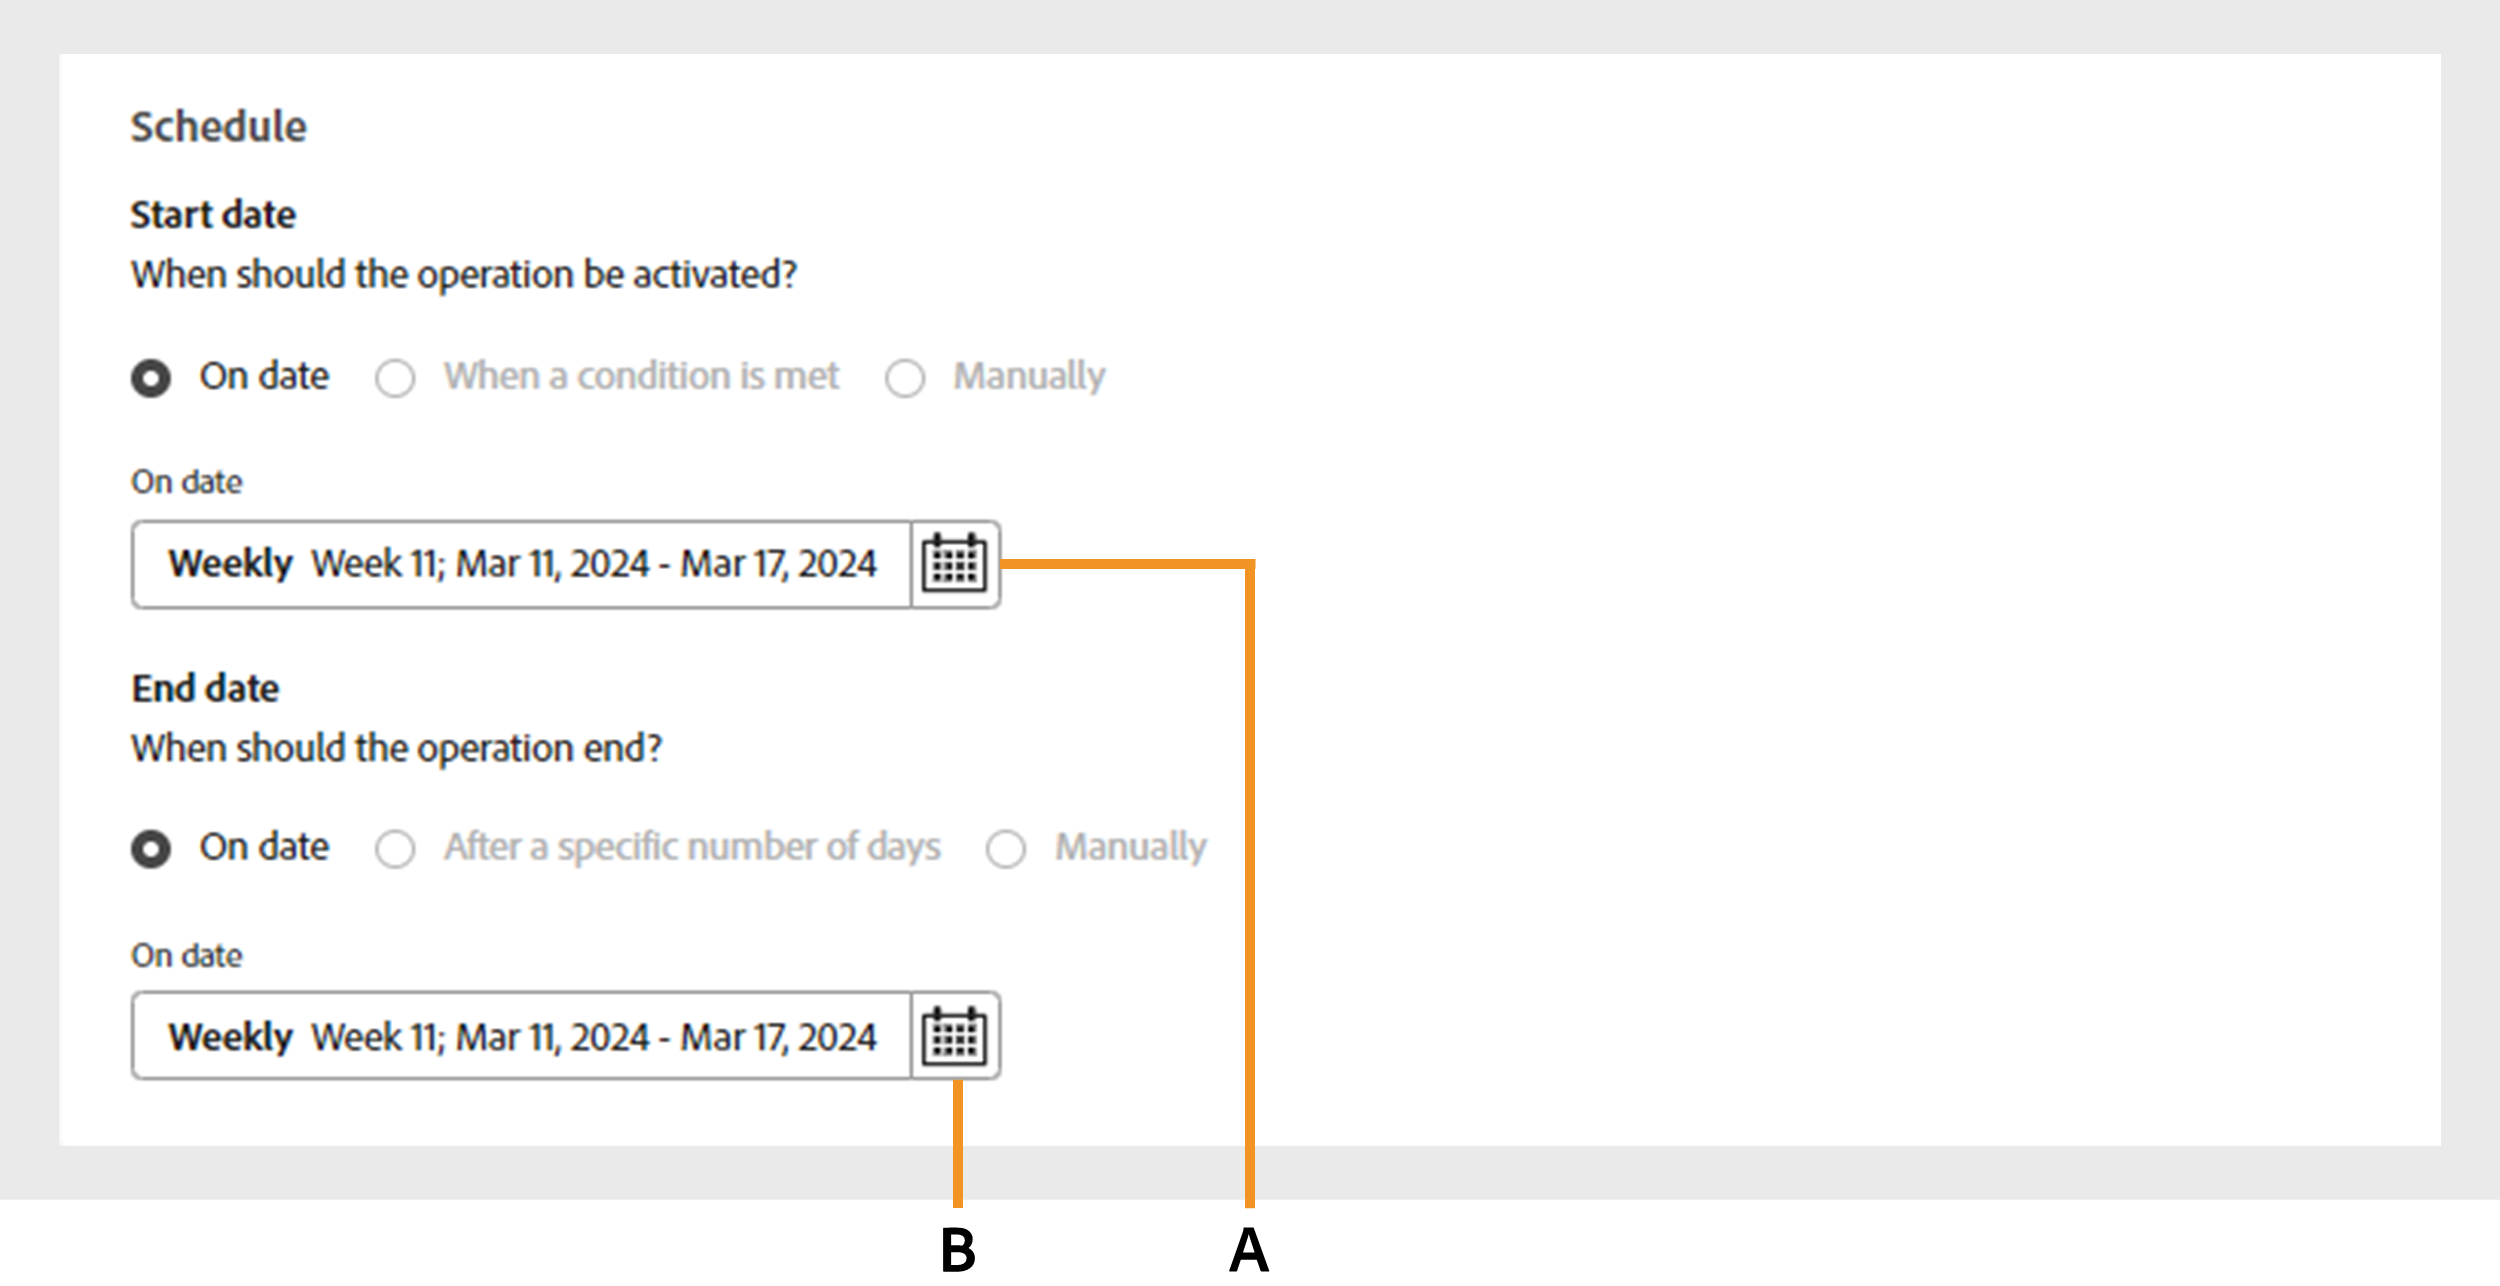
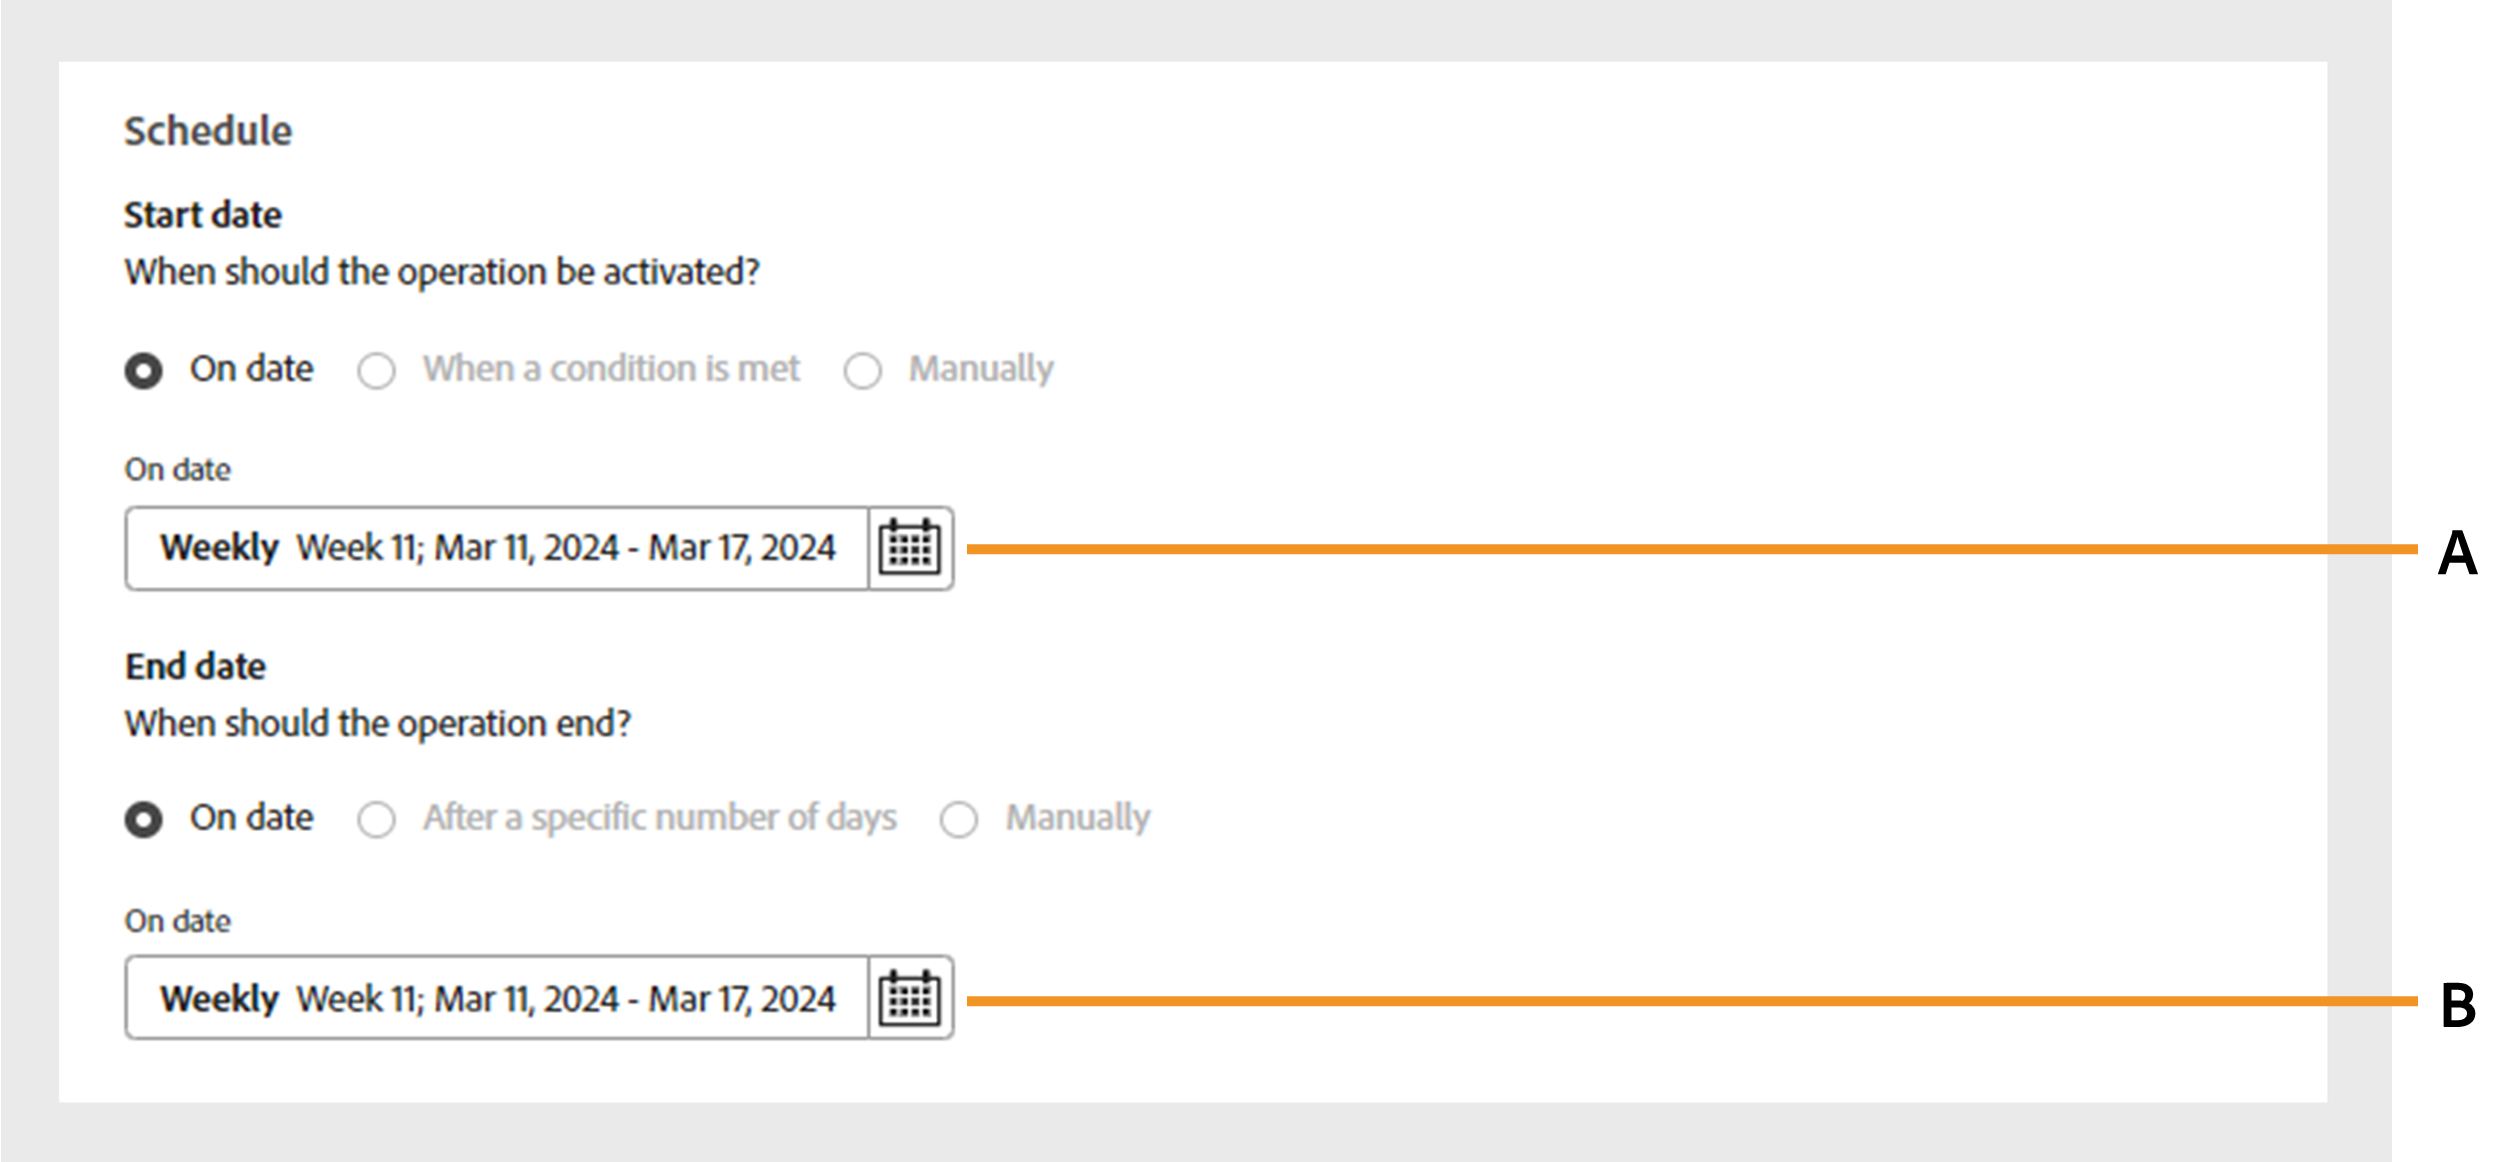
Fixed broken images for v1.2 D2C update

diff --git a/help/accountiq/work-with-segments.md b/help/accountiq/work-with-segments.md
@@ -35,7 +35,7 @@ The process of creating a new segment is similar for D2C services and TV Everywh
 
 To build a segment and analyze subscriber's sharing behavior, select **[!UICONTROL Create new segment]** at the upper-right.
 
-   ![Select Create new segment](assets/d2c-create-new-segment.png)
+   ![Select Create new segment](assets/create-new-segment-d2c.png)
 
    *Select Create new segment*
 
@@ -215,7 +215,7 @@ You can select a segment from the segment list and then perform the following ac
 
 *Select a segment to edit, duplicate, or delete*
 
-**A.** [Video categories](product-concepts.md#video-category-def) **B.** [Default segment](#work-with-segments)
+**A.** [Default segment](#work-with-segments) **B.** [Video categories](product-concepts.md#video-category-def)
 
 >[!NOTE]
 >
